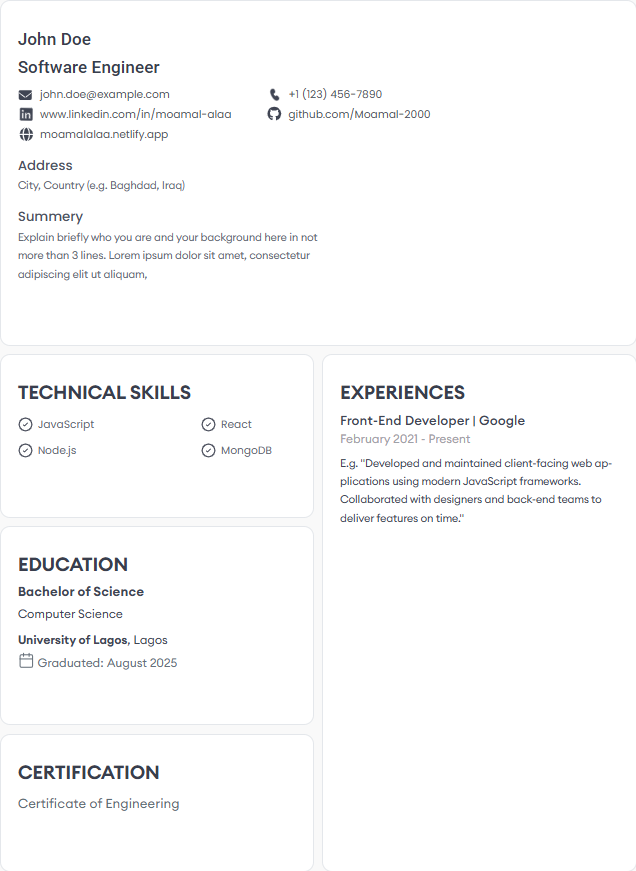
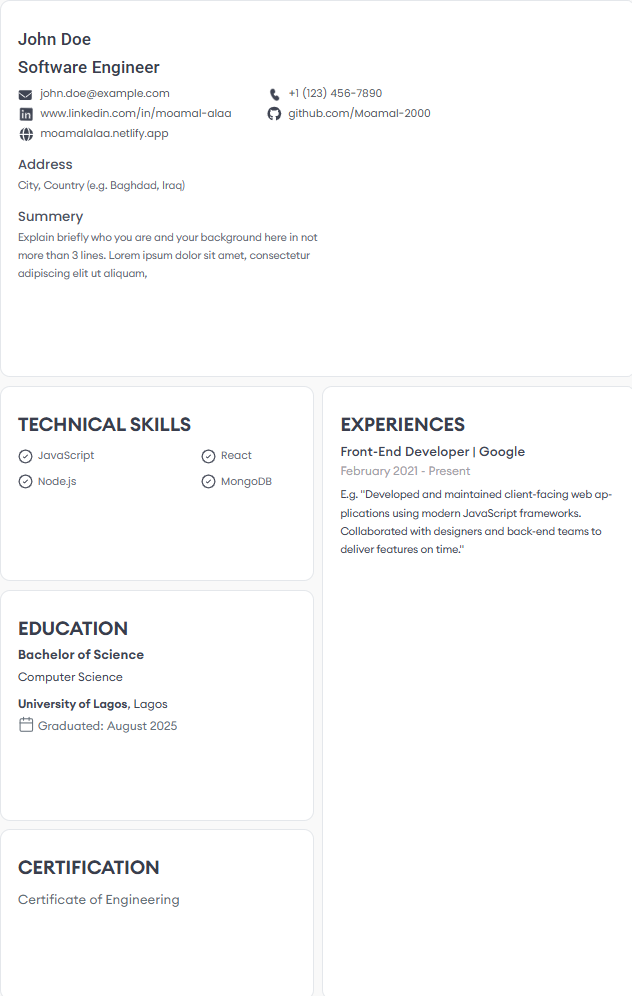
feat(BuilderRootLayout): wrap LiveResume with ResumeWrapper and hide it on resume selector page

diff --git a/src/components/BuilderPage/BuilderRootLayout/BuilderRootLayout.jsx b/src/components/BuilderPage/BuilderRootLayout/BuilderRootLayout.jsx
@@ -1,6 +1,6 @@
-import LiveResume from "../Resumes/LiveResume/LiveResume";
 import Sidebar from "../Sidebar/Sidebar";
 import s from "./BuilderRootLayout.module.scss";
+import ResumeWrapper from "./ResumeWrapper/ResumeWrapper";
 
 const BuilderRootLayout = ({ children }) => {
   return (
@@ -8,7 +8,7 @@ const BuilderRootLayout = ({ children }) => {
       <Sidebar />
       <main className={s.main}>
         {children}
-        <LiveResume />
+        <ResumeWrapper />
       </main>
     </div>
   );

diff --git a/src/components/BuilderPage/BuilderRootLayout/ResumeWrapper/ResumeWrapper.jsx b/src/components/BuilderPage/BuilderRootLayout/ResumeWrapper/ResumeWrapper.jsx
@@ -1,0 +1,15 @@
+"use client";
+
+import { usePathname } from "next/navigation";
+import LiveResume2 from "../../Resumes/LiveResume2/LiveResume2";
+
+const ResumeWrapper = () => {
+  const pathname = usePathname();
+  const isRootPage = pathname === "/builder";
+
+  if (isRootPage) return;
+
+  return <LiveResume2 />;
+};
+
+export default ResumeWrapper;
